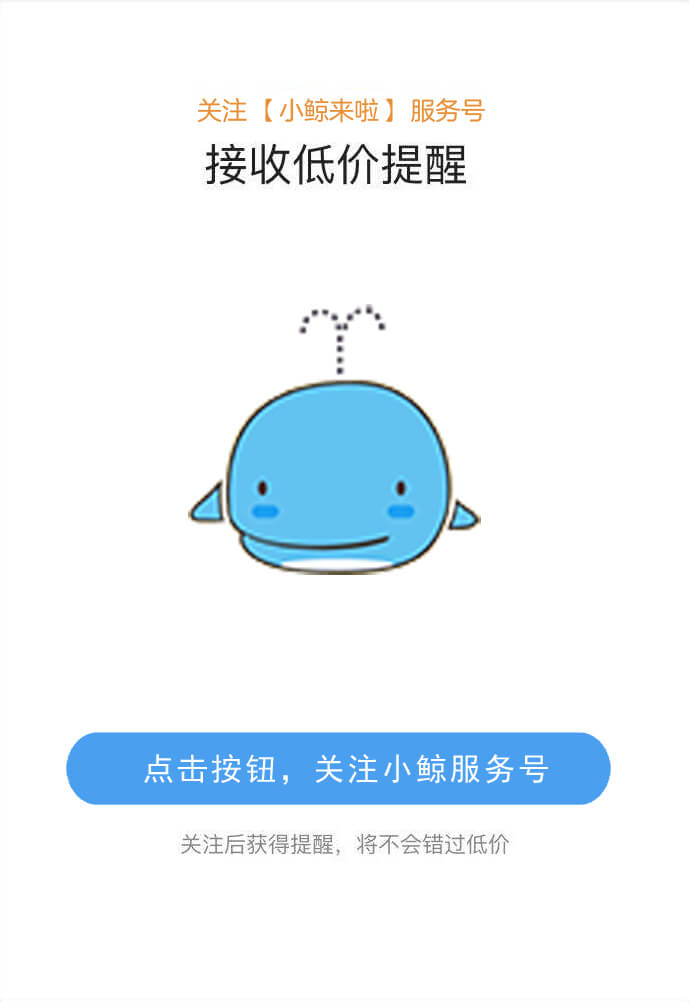
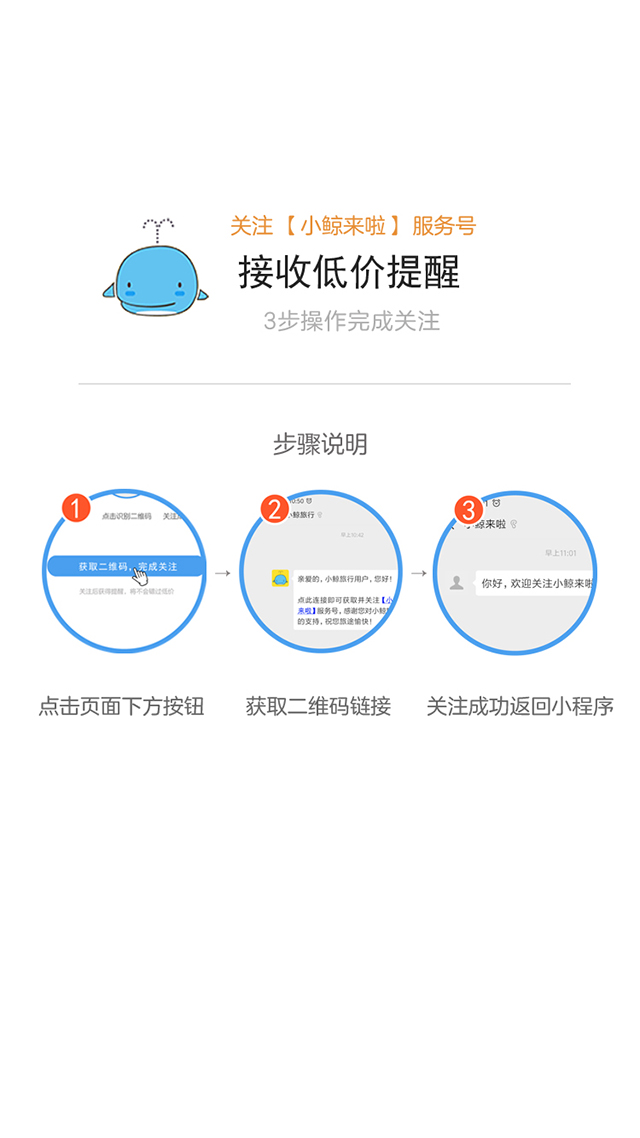
update pages

diff --git a/src/pages/showQRCode/showqrcode.vue b/src/pages/showQRCode/showqrcode.vue
@@ -1,8 +1,12 @@
 <template>
   <div class="content">
     <div class="img-wrap">
-      <img src="/static/images/Wechat_focus.jpg" data-src="/static/images/Wechat_focus.jpg" alt="" mode="widthFix" show-menu-by-longpress="true">
-      <official-account style="position: absolute; bottom: 20rpx; width: 96%; left: 2%;"></official-account>
+      <img src="/static/images/WechatIMG592.jpg" data-src="/static/images/WechatIMG592.jpg" alt="" mode="widthFix" show-menu-by-longpress="true">
+      <!-- <official-account style="position: absolute; bottom: 20rpx; width: 96%; left: 2%;"></official-account> -->
+      <div class="bottom-wrap">
+        <button class="gotoService" open-type="contact">获取二维码，完成关注</button>
+        <div class="bottom-text">关注后获得提醒，将不会错过低价</div>
+      </div>
     </div>
   </div>
 </template>
@@ -60,7 +64,7 @@ export default {
     // this.getUserInfo()
   },
   onShow () {
-    // this.getUserInfo()
+    this.getUserInfo()
   }
 }
 </script>
@@ -75,6 +79,31 @@ export default {
   background: #fff;
 }
 .img-wrap img{
+  width: 90%;
+}
+.bottom-wrap{
+  position: absolute;
   width: 100%;
+  bottom: 100rpx;
+  display: flex-start;
+  flex-flow: column nowrap;
+  justify-content: space-around;
+  align-items: center;
+}
+.gotoService{
+  width: 80%;
+  background: #4a9fef;
+  color: #fff;
+  font-size: 16px;
+  border-radius: 50px;
+  height: 72rpx;
+  line-height: 72rpx;
+  letter-spacing: 10rpx;
+}
+.bottom-text{
+  margin-top: 30rpx;
+  font-size: 12px;
+  color: #bbb9ba;
+  text-align: center;
 }
 </style>

diff --git a/src/pages/follow/follow.vue b/src/pages/follow/follow.vue
@@ -244,7 +244,8 @@ export default {
   // let app = getApp()
   },
   onShow () {
-    this.getUserInfo()
+    this.checkUserStatus()
+    // this.getUserInfo()
   }
 }
 </script>

diff --git a/src/pages/interest/interest.vue b/src/pages/interest/interest.vue
@@ -234,7 +234,8 @@ export default {
   // let app = getApp()
   },
   onShow () {
-    this.getUserInfo()
+    this.checkUserStatus()
+    // this.getUserInfo()
   }
 }
 </script>

diff --git a/src/pages/notifaction/notifaction.vue b/src/pages/notifaction/notifaction.vue
@@ -267,7 +267,8 @@ export default {
   // let app = getApp()
   },
   onShow () {
-    this.getUserInfo()
+    this.checkUserStatus()
+    // this.getUserInfo()
   }
 }
 </script>
